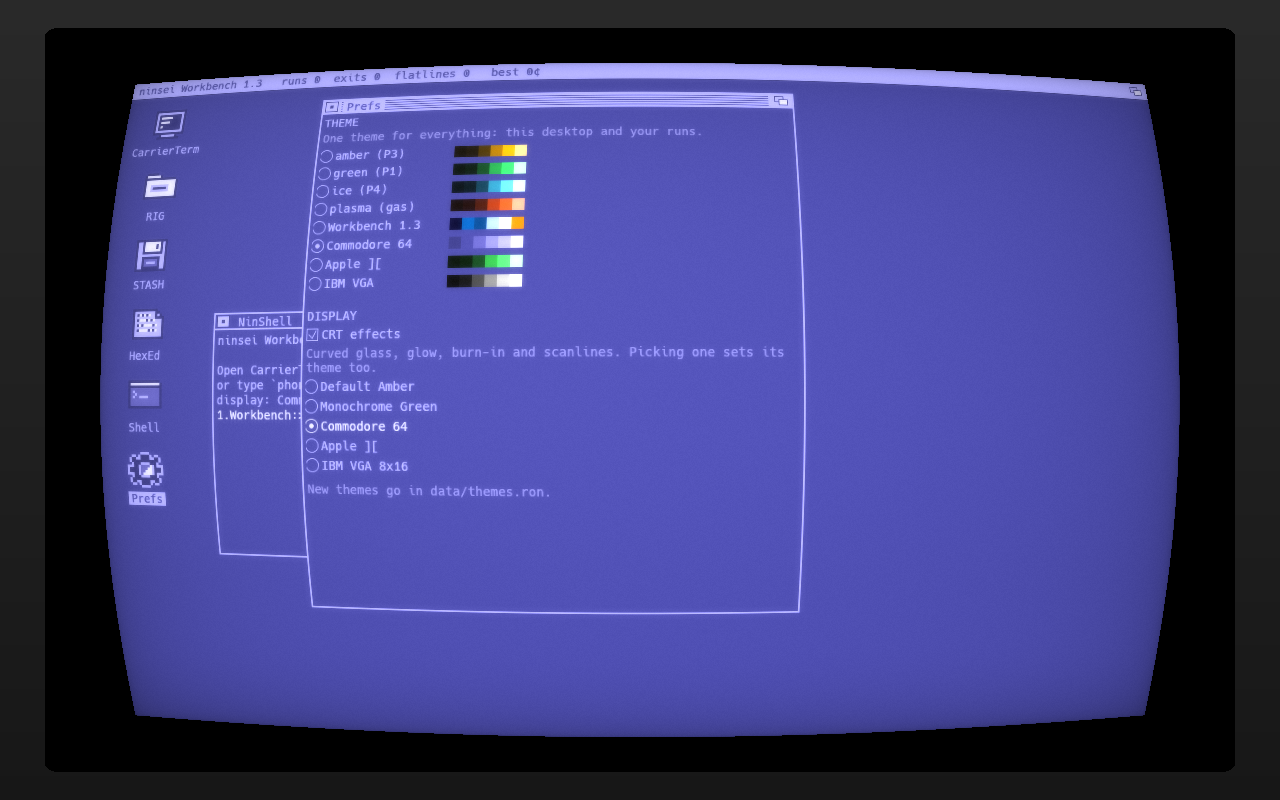
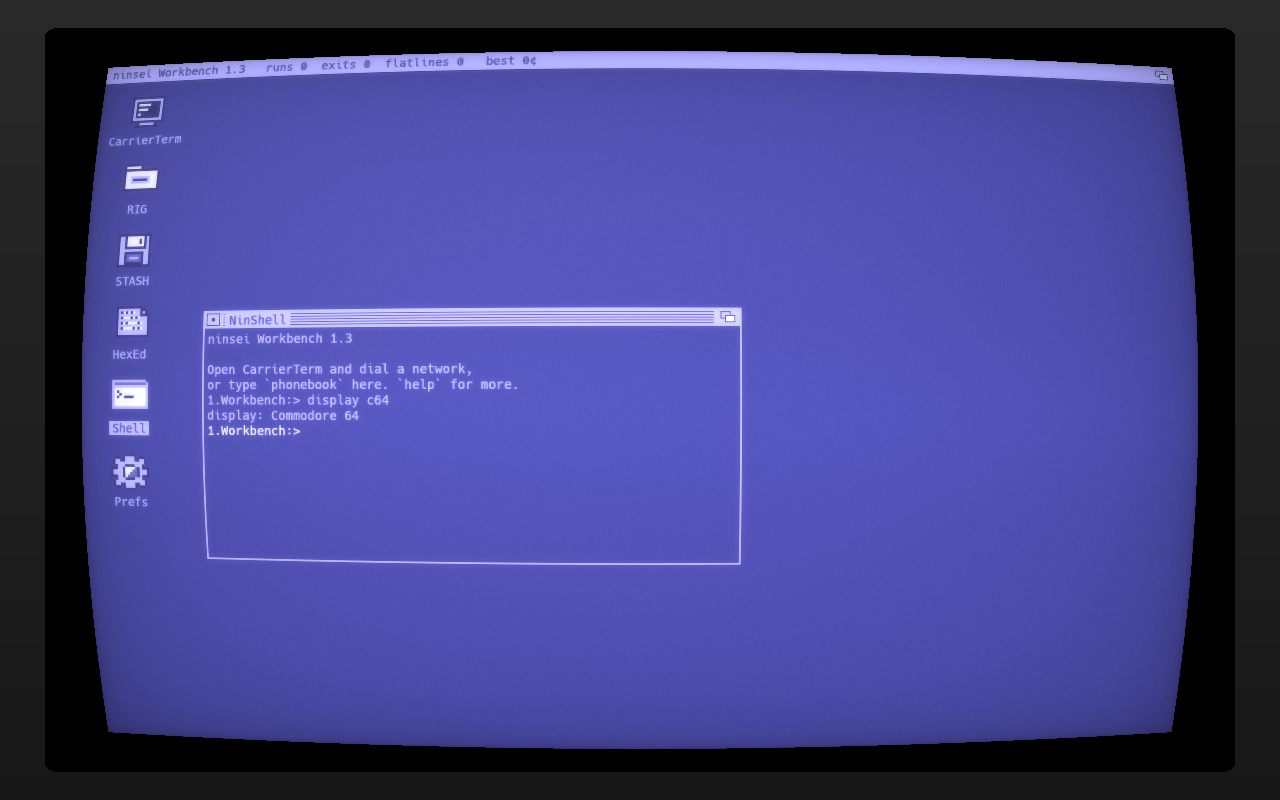
Ease the C64 curve; print theme/display once in the Shell
The Commodore 64 preset's screen_curvature goes 0.5 -> 0.3. The theme
and display commands no longer echo in core as well as in the app.

Claude-Session: https://claude.ai/code/session_01Lh5QfeLeTcyoAPvScBu9X2

diff --git a/crates/core/src/hub.rs b/crates/core/src/hub.rs
@@ -1351,10 +1351,7 @@ pub fn shell(line: &str, save: &Save, data: &Data) -> (Vec<String>, ShellEffect)
             }
         }
         "theme" => match arg.and_then(|t| data.theme(t)) {
-            Some(t) => (
-                vec![format!("theme: {}", t.label)],
-                ShellEffect::Theme(t.id.clone()),
-            ),
+            Some(t) => (Vec::new(), ShellEffect::Theme(t.id.clone())),
             None => {
                 let ids: Vec<&str> = data.themes.iter().map(|t| t.id.as_str()).collect();
                 (
@@ -1365,10 +1362,7 @@ pub fn shell(line: &str, save: &Save, data: &Data) -> (Vec<String>, ShellEffect)
         },
         "crt" => (Vec::new(), ShellEffect::Crt),
         "display" => match arg.and_then(|d| data.display(d)) {
-            Some(d) => (
-                vec![format!("display: {}", d.label)],
-                ShellEffect::Display(d.id.clone()),
-            ),
+            Some(d) => (Vec::new(), ShellEffect::Display(d.id.clone())),
             None => {
                 let ids: Vec<&str> = data.displays.iter().map(|d| d.id.as_str()).collect();
                 (
